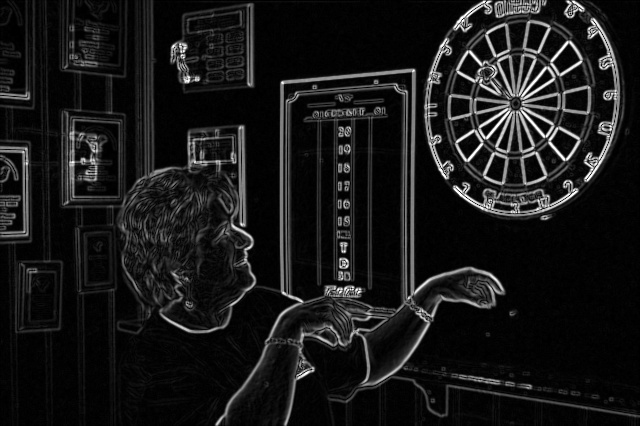
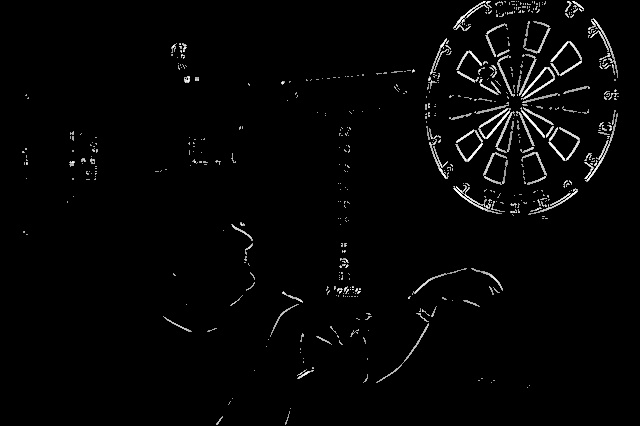
Added thresholding

Changed region(s): [[0.0, 0.0, 1.0, 1.0]]

diff --git a/Subtask3/face.cpp b/Subtask3/face.cpp
@@ -73,8 +73,11 @@ int main( int argc, const char** argv ) {
 	/// Total Gradient (approximate)
 	addWeighted( abs_grad_x, 0.5, abs_grad_y, 0.5, 0, grad );
 
+	Mat dest;
+	threshold(grad, dest, 100, 0, 3);
+
 	// 4. Save Result Image
-	imwrite( "output.jpg", grad );
+	imwrite( "output1.jpg", dest );
 
 	return 0;
 }
